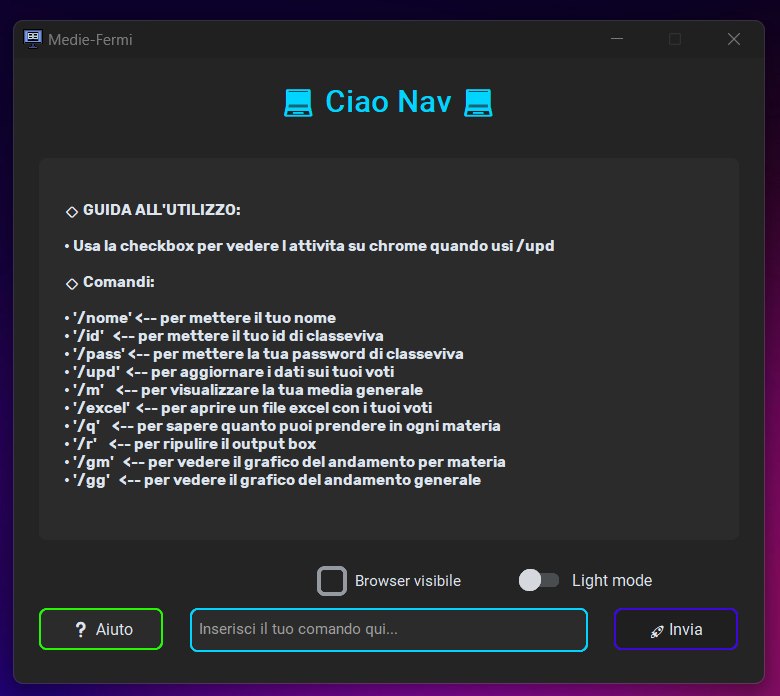
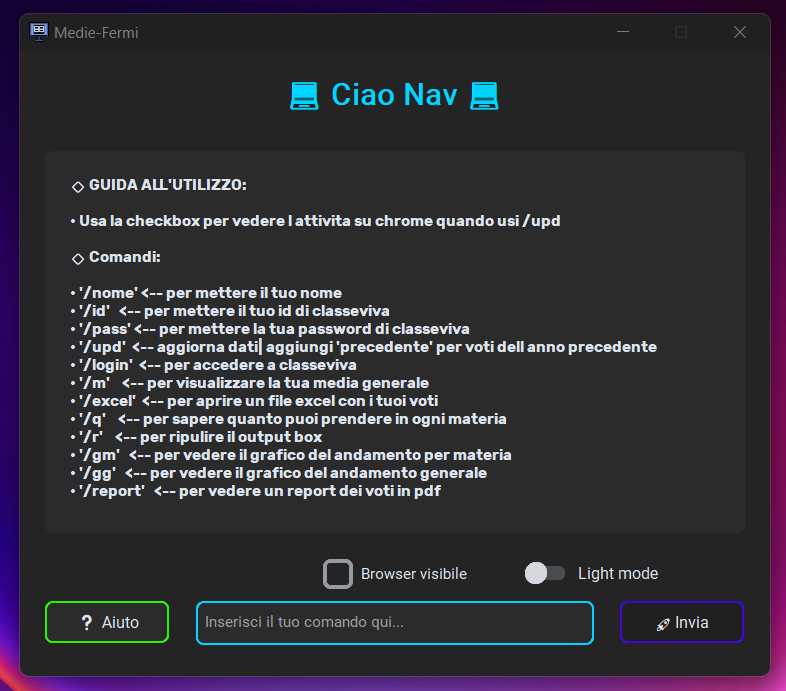
add v1.3
- aggiunto la possibilita di cambiare tra dati del anno precedente/attuale
- minor changes

diff --git a/Classeviva-Medie.py b/Classeviva-Medie.py
@@ -1,18 +1,12 @@
 import customtkinter as ctk
 import tkinter as tk
-import sys,os
-from assets.media_voti import chek,media,excel,quanto_posso_prendere,grafico_generale,graficoXmateria,materie,report,login
+from assets.media_voti import chek,media,excel,quanto_posso_prendere,grafico_generale,graficoXmateria,materie,report,login,resource_path
 import matplotlib.pyplot as plt
 import matplotlib as mpl
 from matplotlib.backends.backend_tkagg import FigureCanvasTkAgg
 import keyring as ky
 
 # path
-def resource_path(relative_path):
-    if hasattr(sys,"_MEIPASS"):
-        return os.path.join(sys._MEIPASS,relative_path)
-    return os.path.join(os.path.abspath("."),relative_path)
-
 nome_path = "archivio/nome.txt"
 icona_path = resource_path("assets/icona.ico")
 browser_mode = resource_path("assets/Browser_mode.txt")
@@ -49,14 +43,17 @@ class ModernGUI:
         self.root.grid_rowconfigure(2, weight=0)  # Checkbox
         self.root.grid_rowconfigure(3, weight=0)  # Entry e bottoni
         
-        # Variabili per le animazioni
-        self.animation_running = False
         # varibile contente i comandi usati dal inizio del programma
         self.comandi_usati = []
         self.indice_comandi = -1
 
+        self.root.protocol("WM-DELETE-WINDOW",self.on_closing)
         self.setup_gui()
-        
+    def on_closing(self):
+        self.root.destroy() # chiudi gui
+        self.root.quit()    # ferma loop
+        exit(0)             # ferma script
+
     def setup_gui(self):
         # Label di saluto in alto
         with open(nome_path, "r") as file:
@@ -248,18 +245,23 @@ class ModernGUI:
             content = user_input[6::]
             ky.set_password(service_name_password,"user",content)
             output_text = "password aggiornata!"
-        elif user_input=="/upd":
-            self.update_output("📡Aggiornamento in corso...\n🕓ci potrebbero volere alcuni minuti\n🛜assicurati di avere una buona conessione.")
-            self.root.update_idletasks()
-            esito = chek()
-            if esito=="nessuna password":
-                output_text="⚠Nessuna password trovata! Inserisci '/pass' per aggiungerla."
-            elif esito=="nessun id":
-                output_text="⚠Nessun id trovato! Inserisci '/id' per aggiungerlo."
-            elif esito=="credenziali errate":
-                output_text="⚠Credenziali errate o conessione lenta"
-            elif esito=="dati aggiornati":
-                output_text="Dati aggiornati!🙆♂"
+        elif user_input.startswith("/upd"):
+            anno = user_input.split(" ")[1] if len(user_input.split(" ")) > 1 else "questo"
+            print(anno)
+            if anno!="precedente" and anno!="questo":
+                output_text="comando non valido"
+            else:
+                self.update_output("📡Aggiornamento in corso...\n🕓ci potrebbero volere alcuni minuti\n🛜assicurati di avere una buona conessione.")
+                self.root.update_idletasks()
+                esito = chek(anno)
+                if esito=="nessuna password":
+                    output_text="⚠Nessuna password trovata! Inserisci '/pass' per aggiungerla."
+                elif esito=="nessun id":
+                    output_text="⚠Nessun id trovato! Inserisci '/id' per aggiungerlo."
+                elif esito=="credenziali errate":
+                    output_text="⚠Credenziali errate o conessione lenta"
+                elif esito=="dati aggiornati":
+                    output_text="Dati aggiornati!🙆♂"
         elif user_input=="/login":
             self.update_output("login in corso... \nil programma si blocca durante l uso del browser")
             self.root.update_idletasks()
@@ -274,18 +276,25 @@ class ModernGUI:
             esito = media()
             if esito=="nessun voto trovato":
                 output_text="⚠Nessun voto trovato!"
+            elif esito=="nessun file":
+                output_text="⚠esegui prima /upd per ottenere i dati"
             else:
                 output_text=f"📈Media Generale: {esito:.2f}"
         elif user_input=="/excel":
             self.update_output("📂 Il file si sta aprendo...")
             self.root.update_idletasks()
-            excel()
-            output_text = "File CSV aperto con successo!👌"   
+            try:
+                excel()
+                output_text = "File CSV aperto con successo!👌"   
+            except FileNotFoundError:
+                output_text="⚠file non trovato"
         elif user_input=="/r":
             output_text="L'output del programma apparirà qui..."
         elif user_input=="/q":
             l = quanto_posso_prendere()
             output_text = "\n".join(l) if l else "⚠ Nessun risultato trovato."
+            if l=="nessun file" or l=="nessun voto trovato":
+                output_text="⚠dati non trovati o file excel inesistente"
         elif user_input=="/gg":
             try:
                 self.canvas.get_tk_widget().destroy()
@@ -320,8 +329,8 @@ class ModernGUI:
                 self.canvas.get_tk_widget().grid(row=0, column=0, pady=20, padx=20, sticky="nsew")
             output_text="Grafico x Materia:"
             valori = materie()
-            if valori=="nessun dato":
-                output_text="⚠ Nessun dato trovato"
+            if valori=="nessun dato" or valori=="nessun file" or valori=="nessun voto trovato":
+                output_text="⚠ Nessun dato trovato o file excel inesistente"
             else:
                 self.dropdown = ctk.CTkOptionMenu(
                     master=self.output_frame,
@@ -334,6 +343,8 @@ class ModernGUI:
             esito = report()
             if esito=="ok":
                 output_text=f"report eseguito!✅\ncontrolla al path '{path_report}'"
+            elif esito=="nessun file":
+                output_text="⚠file excel inesistente"
             elif esito=="nessun voto trovato":
                 output_text="⚠Nessun voto trovato o il numero di materie è stato modificato manualmente \n-se il numero di materie è piu alto di quelle efettive il programma non andra avanti, \n-se è minore eseguirà il comando son il numero di materie indicate-1 , \n-se metti 0 controllerà tutte le le caselle del excel che avvolte puo causare un uso ecessivo della cpu, \n-se è un numero negativo il comando non andra avanti"
         else:
@@ -376,7 +387,7 @@ class ModernGUI:
 • '/nome' <-- per mettere il tuo nome                        
 • '/id'   <-- per mettere il tuo id di classeviva            
 • '/pass' <-- per mettere la tua password di classeviva      
-• '/upd'  <-- per aggiornare i dati sui tuoi voti            
+• '/upd'  <-- aggiorna dati| aggiungi 'precedente' per voti dell anno precedente            
 • '/login'  <-- per accedere a classeviva            
 • '/m'    <-- per visualizzare la tua media generale         
 • '/excel'  <-- per aprire un file excel con i tuoi voti       
@@ -390,9 +401,10 @@ class ModernGUI:
         
         # Mostra l'aiuto nel label centrale
         self.update_output(help_text)
-
+    
     def run(self):
         """Avvia l'applicazione"""
+
         self.root.mainloop()
 
 # Crea e avvia l'applicazione

diff --git a/assets/media_voti.py b/assets/media_voti.py
@@ -21,28 +21,27 @@ import matplotlib.pyplot as plt
 import matplotlib as mpl
 
 
+def resource_path(relative_path):
+    if hasattr(sys,"_MEIPASS"):
+        return os.path.join(sys._MEIPASS,relative_path)
+    return os.path.join(os.path.abspath("."),relative_path)
+
 excel_path = "voti.xlsx"
 numer_materie_path = "archivio/n_materie.txt"
 grafico_gen_path = "archivio/dati_grafico.json"
 service_name_id = "Classeviva-Medie-id"
 service_name_password = "Classeviva-Medie-password"
 nome_path = "archivio/nome.txt"
-path_logo_1 = "assets/logo.png"
-path_logo_2 = "assets/dashboard.png"
-path_grafico = "assets/grafico.png"
-path_ciambella = "assets/ciambella.png"
-path_qr_code = ["assets/qrcode_discord.png","assets/qrcode_github.png","assets/qrcode_instagram.png"]
+path_logo_1 = resource_path("assets/logo.png")
+path_logo_2 = resource_path("assets/dashboard.png")
+path_grafico = resource_path("assets/grafico.png")
+path_ciambella = resource_path("assets/ciambella.png")
+path_qr_code = [resource_path("assets/qrcode_discord.png"),resource_path("assets/qrcode_github.png"),resource_path("assets/qrcode_instagram.png")]
 path_report = "archivio/report.pdf"
 
 
 # chek voti
 def login():
-
-    # path
-    def resource_path(relative_path):
-        if hasattr(sys,"_MEIPASS"):
-            return os.path.join(sys._MEIPASS,relative_path)
-        return os.path.join(os.path.abspath("."),relative_path)
 
     browser_mode = resource_path("assets/Browser_mode.txt")
 
@@ -83,13 +82,8 @@ def login():
     bottone.click()
 
     return "ok"
-def chek():
-    
-    # path
-    def resource_path(relative_path):
-        if hasattr(sys,"_MEIPASS"):
-            return os.path.join(sys._MEIPASS,relative_path)
-        return os.path.join(os.path.abspath("."),relative_path)
+
+def chek(anno):
 
     browser_mode = resource_path("assets/Browser_mode.txt")
 
@@ -130,27 +124,29 @@ def chek():
 
     # naviga fino al anno precedente
     time.sleep(5)
-    try:
-        wait = WebDriverWait(driver, 10)
-        bottone = wait.until(EC.element_to_be_clickable((By.CSS_SELECTOR, "button[type='button']")))
-        bottone.click()
-    except:
-        pass
-    try:
-        wait = WebDriverWait(driver, 10)
-        anno_precedente = wait.until(EC.element_to_be_clickable((By.CSS_SELECTOR, "p.voce_menu_colonna_sx")))
-        anno_precedente.click()
-    except:
-        pass
-    # Passa alla nuova finestra/scheda
-    try:
-        windows = driver.window_handles
-        driver.switch_to.window(windows[-1])
-    except:
-        driver.quit()
-        return "credenziali errate"
+    if anno=="precedente":
+        try:
+            wait = WebDriverWait(driver, 10)
+            bottone = wait.until(EC.element_to_be_clickable((By.CSS_SELECTOR, "button[type='button']")))
+            bottone.click()
+        except:
+            pass
+        try:
+            wait = WebDriverWait(driver, 10)
+            anno_precedente = wait.until(EC.element_to_be_clickable((By.CSS_SELECTOR, "p.voce_menu_colonna_sx")))
+            anno_precedente.click()
+            time.sleep(2)
+        except:
+            pass
+        # Passa alla nuova finestra/scheda
+        try:
+            windows = driver.window_handles
+            driver.switch_to.window(windows[-1])
+        except:
+            driver.quit()
+            return "credenziali errate"
         
-    time.sleep(2) # attesa per caricamento pagina
+        time.sleep(20) # attesa per caricamento pagina
 
     # Trova tutte le righe della tabella con classe 'griglia rigtab'
     righe = driver.find_elements(By.CSS_SELECTOR, "tr[align='left']")
@@ -353,8 +349,8 @@ def media():
     flag = 0
     totale=0
     voti = get_data()
-    if voti == "nessun voto trovato":
-        return "nessun voto trovato"
+    if voti == "nessun voto trovato" or voti=="nessun file":
+        return voti
 
     for k in voti:
         for voto in k[0:len(k)-1]:
@@ -389,6 +385,8 @@ def media():
 def quanto_posso_prendere():
 
     data = get_data()
+    if data=="nessun file" or data=="nessun voto trovato":
+        return data
     l = []
 
     for i in data:
@@ -472,6 +470,9 @@ def materie():
 
     data = []
     voti = get_data()
+    if voti=="nessun file" or voti=="nessun voto trovato":
+        return voti
+
     for materia in voti:
         materia=materia[0]       
         data.append(materia)
@@ -492,7 +493,10 @@ def excel():
 def get_data():
 
     with open(numer_materie_path,"r") as f:
-        numero_materie = int(f.read())
+        try:
+            numero_materie = int(f.read())
+        except ValueError:
+            return "nessun file"
 
     lista_voti=[]
     voti=[]
@@ -537,6 +541,8 @@ def report():
     if m=="nessun voto trovato":
         return "nessun voto trovato"
     dati = get_data()
+    if dati=="nessun file" or dati=="nessun voto trovato":
+        return dati
     materie_insufficenti=0
     totale_verifiche = 0
     totale_insufficenze = 0
@@ -577,7 +583,7 @@ def report():
 
 
     pdf.set_font("Arial", size=12,style='')
-    pdf.cell(100, 20, txt=f"Studente: {nome}    id:{codice}", ln=False, align="L")
+    pdf.cell(100, 20, txt=f"Studente: {nome}    ID:{codice}", ln=False, align="L")
 
 
     # istogramma a linee orizzontali

diff --git a/README.md b/README.md
@@ -62,11 +62,6 @@ Installa le librerie
 - 📂 voti organizzati in un excel
 - 🌓 Light/dark mode toggle
 
-## ⏭UPcoming Features
-
-- 🥇 classifica materie
-- 🗃 report pdf
-- 📊 dashboard
 
 ## 🔗 Links & Contatti
 
